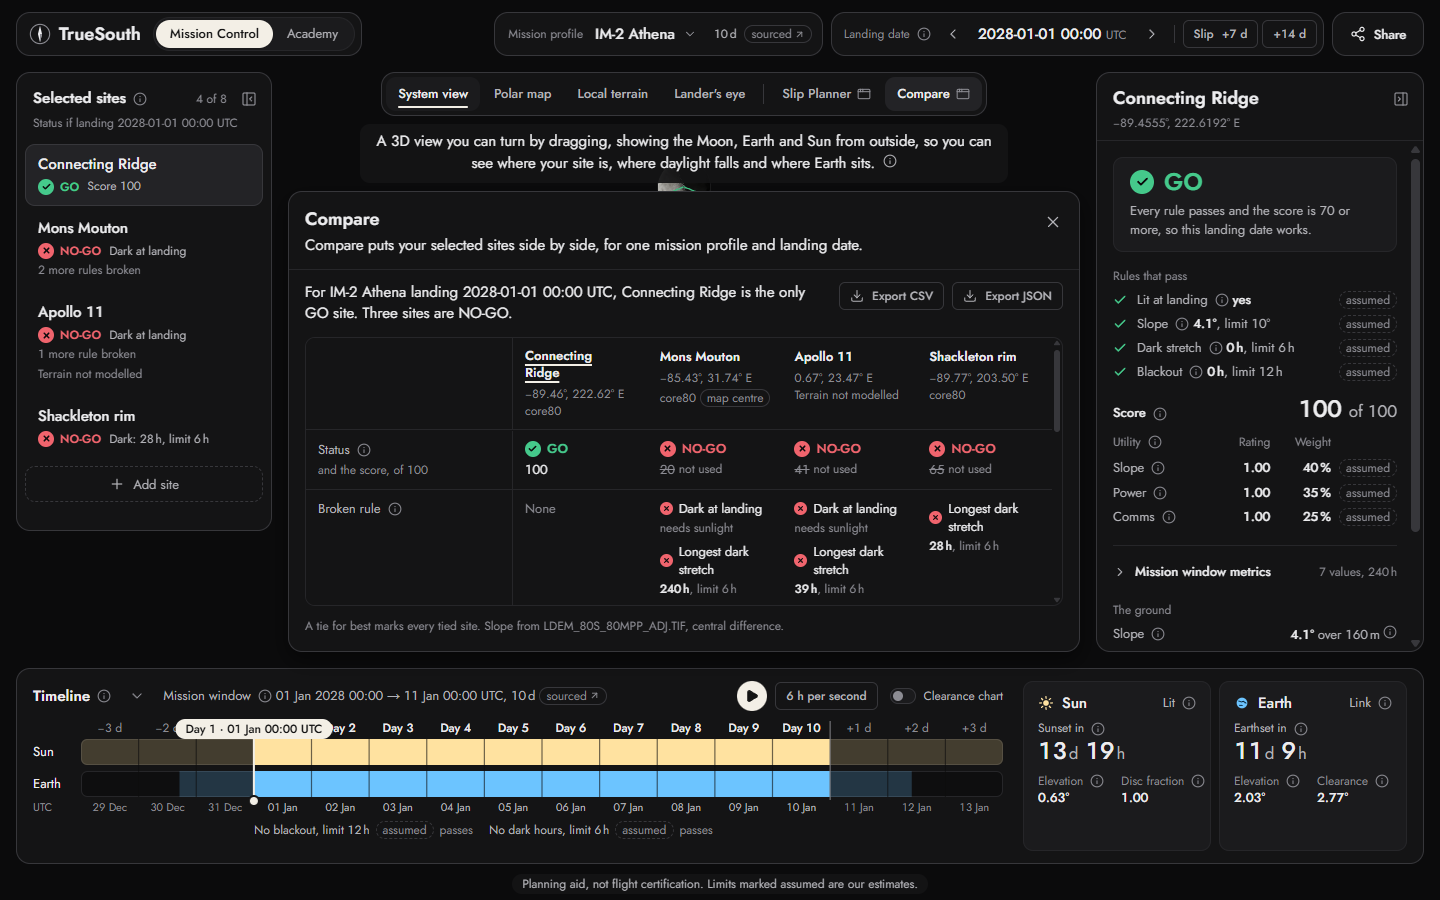
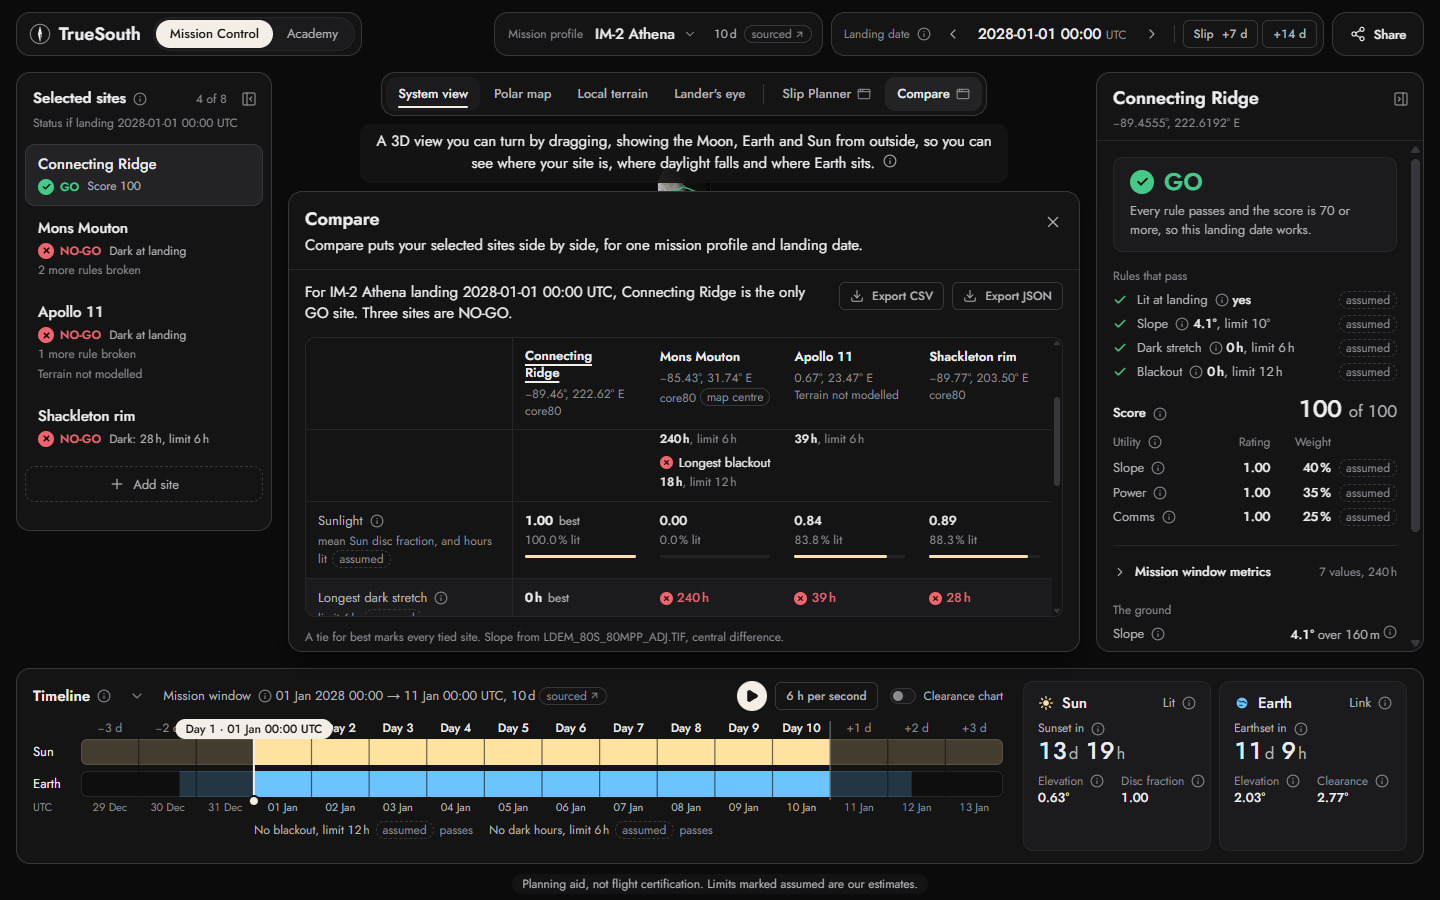
MC9: 'best' as a plain word, not a pill that reads like a provenance tag

diff --git a/web/src/features/mission-control/compare/compare.css b/web/src/features/mission-control/compare/compare.css
@@ -228,15 +228,12 @@
   font-weight: 600;
 }
 
+/* "best" is a plain word, not a pill: a pill with an outline is a provenance tag. */
 .cmp-best-mark {
   margin-left: 2px;
-  padding: 0 5px;
-  border: 1px solid var(--line-strong);
-  border-radius: var(--r-pill);
   color: var(--ink-2);
   font-size: var(--t-sm);
   font-weight: 400;
-  line-height: 16px;
 }
 
 .cmp-broken-value {
